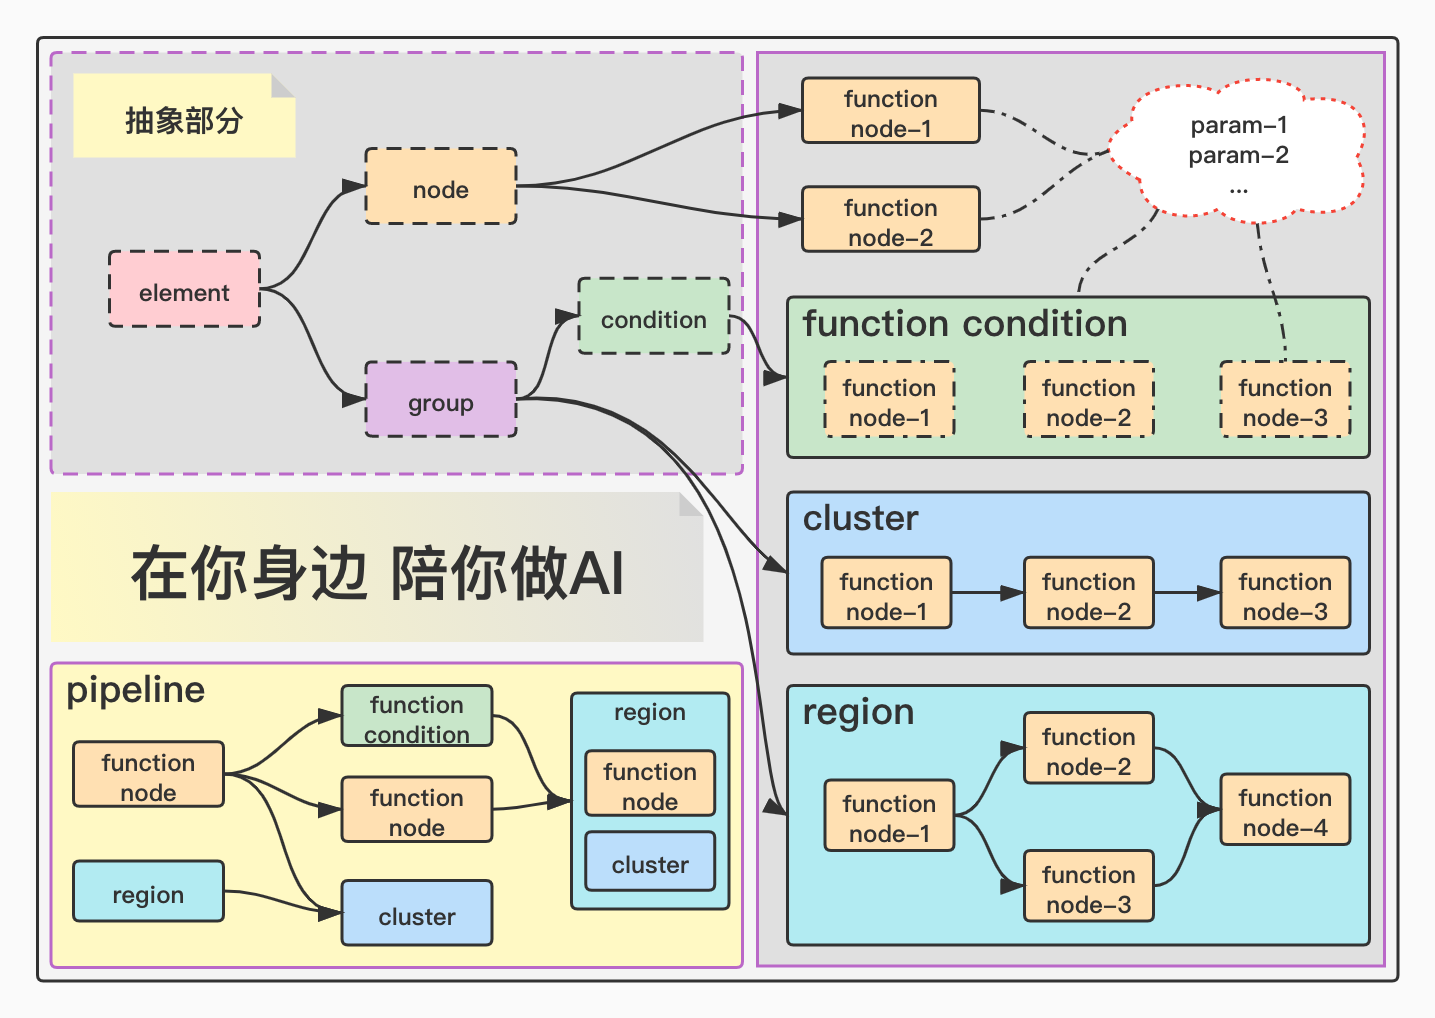
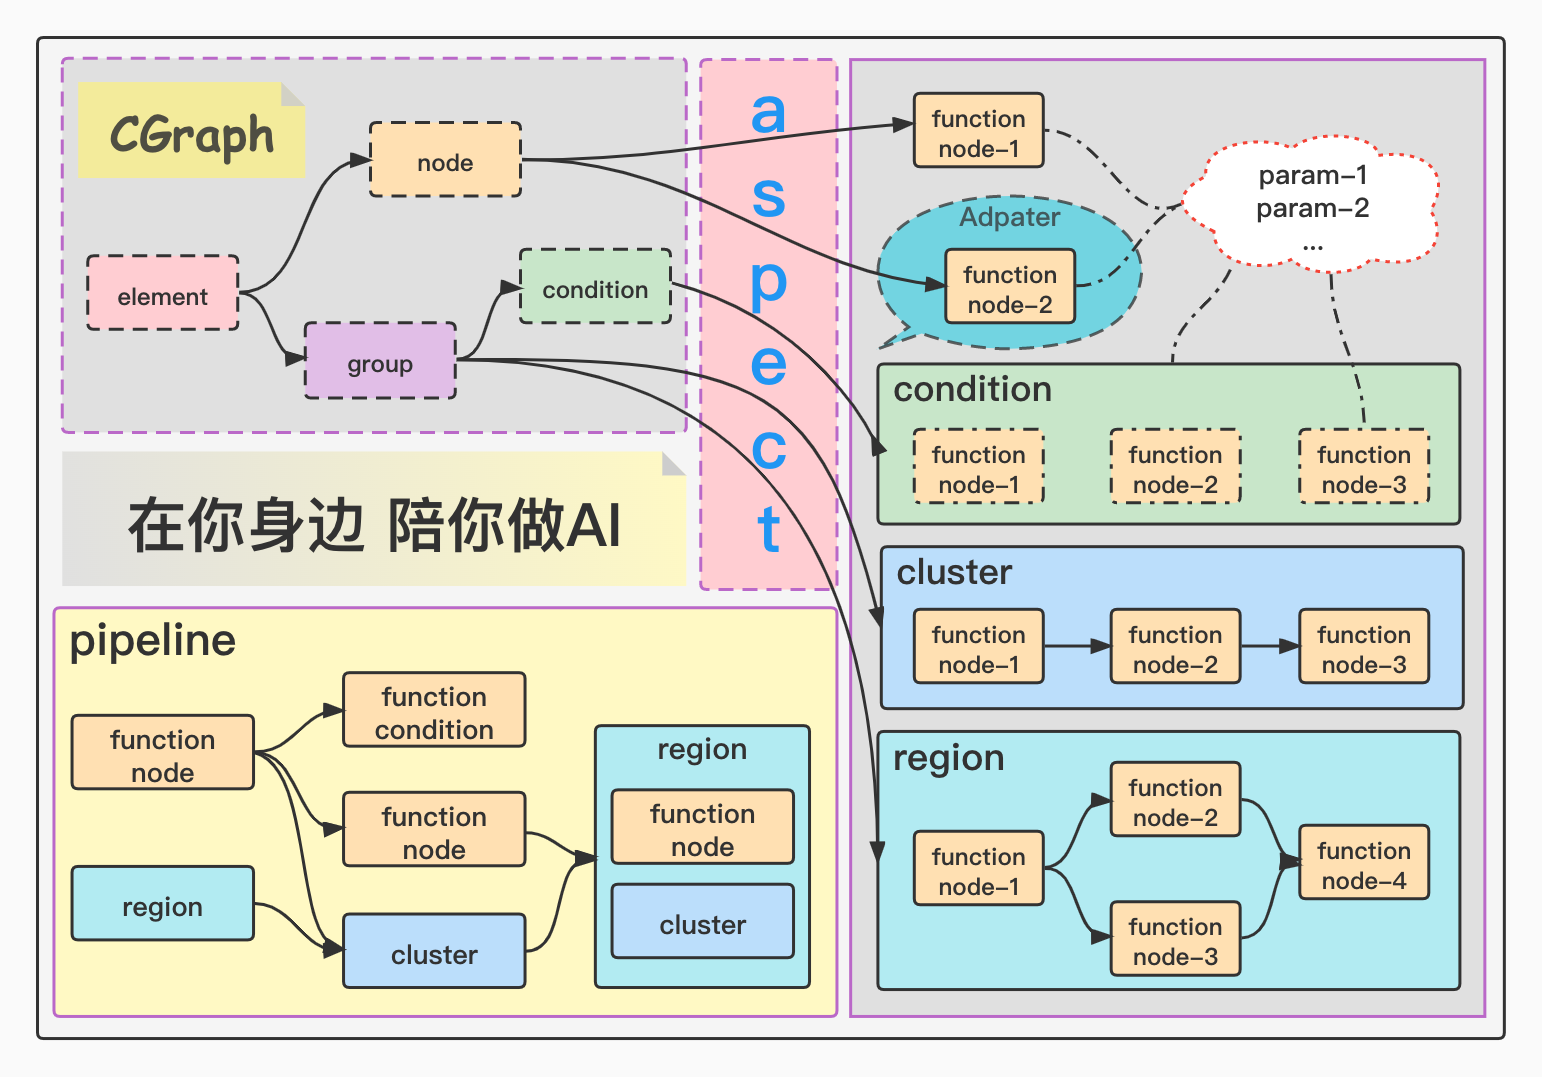
[chg] 优化skeleton图片信息

diff --git a/src/GraphCtrl/GraphElement/GAdapter/GSingleton/GSingleton.h b/src/GraphCtrl/GraphElement/GAdapter/GSingleton/GSingleton.h
@@ -28,13 +28,13 @@ protected:
      * @param paramManager
      * @return
      */
-    CSTATUS setElementInfo(const std::set<GElement *> &dependElements,
+    CSTATUS setElementInfo(const std::set<GElementPtr> &dependElements,
                            const std::string &name,
                            int loop,
                            GParamManagerPtr paramManager) override;
 
 private:
-    static USingleton<T> s_singleton_;
+    static USingleton<T, USingletonType::HUNGRY> s_singleton_;
     static std::atomic<bool> s_is_init_;
 
     friend class GPipeline;

diff --git a/README.md b/README.md
@@ -9,13 +9,13 @@
 
 ## 一. 简介
 
-本工程实现了一套跨平台图流程计算框架。通过框架图底层调度，实现了依赖元素依次顺序执行、非依赖元素并发执行的调度功能。
+本工程实现了一套跨平台图流程计算框架。通过`GPipeline`(流水线)底层调度，实现了依赖元素依次顺序执行、非依赖元素并发执行的调度功能。
 
-使用者只需继承`GNode`（节点）类，实现子类的run()方法，并设定依赖关系，即可实现任务的图化执行。
+使用者只需继承`GNode`（节点）类，实现子类的run()方法，并根据需要设定依赖关系，即可实现任务的图化执行。
 
 同时，使用者还可以通过设定各种包含多节点信息的`GGroup`（组），自行控制图的条件判断、循环和并发执行逻辑。
 
-此外，还可以对以上各种类型元素添加`GAspect`(切面)，实现功能的横向扩展。
+此外，还可以通过添加`GAspect`(切面)的方式，实现以上各种元素功能的横向扩展，或是通过引入`GAdapter`（适配器）对单个节点功能进行加强。
 
 ![CGraph Skeleton](https://github.com/ChunelFeng/CGraph/blob/main/doc/image/CGraph%20Skeleton.jpg)
 <br>
@@ -72,7 +72,7 @@ public:
 using namespace CGraph;
 
 void tutorial_simple() {
-    /* 创建图 */
+    /* 创建一个流水线，用于设定和执行流图信息 */
     GPipelinePtr pipeline = GPipelineFactory::create();
 
     CSTATUS status = STATUS_OK;
